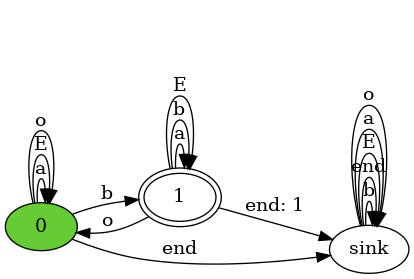
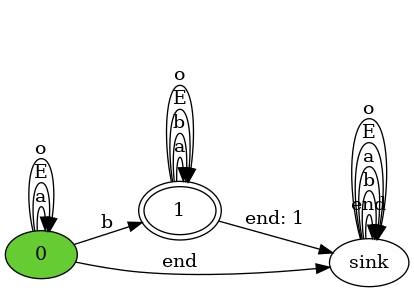
fix a bug

diff --git a/dfa/examples.py b/dfa/examples.py
@@ -18,7 +18,7 @@ DFA_2 = DFA(
     input_symbols={"a", "b", "E", "o"},
     transitions={
         "0": {"a": "0", "b": "1", "E": "0", "o": "0"},
-        "1": {"a": "1", "b": "1", "E": "1", "o": "0"},
+        "1": {"a": "1", "b": "1", "E": "1", "o": "1"},
     },
     initial_state="0",
     final_states={"1"},
